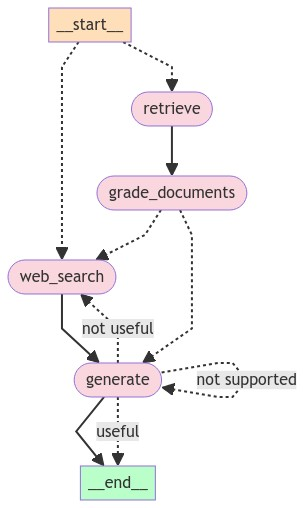
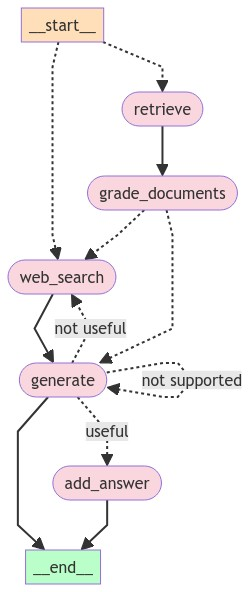
fix bugs

Changed region(s): [[0.0, 0.0, 0.98, 1.0]]

diff --git a/app/graph/graph.py b/app/graph/graph.py
@@ -1,6 +1,7 @@
 from typing import Any, Dict, Sequence
 from dotenv import load_dotenv, find_dotenv
 from langchain.schema import HumanMessage
+from langchain_core import chat_history
 from langgraph.graph import END, StateGraph
 from langgraph.checkpoint.sqlite import SqliteSaver
 
@@ -63,13 +64,15 @@ def grade_generation_grounded_in_documents_and_question(state: GraphState) -> st
 def add_answer(state: GraphState) -> Dict[str, Any]:
     print("____ADD ANSWER____")
     generation = state.generation
-    return { "chat_history": HumanMessage(content=generation)}
+    chat_history = state.chat_history or []
+    chat_history.append(HumanMessage(content=generation))
+    return { "chat_history": chat_history, "generation": generation}
 
 
 def route_question(state: GraphState) -> str:
     print("____ROUTE QUESTION____")
     question = state.question
-    chat_history = state.chat_history
+    chat_history = state.chat_history or []
     source: RouteQuery = question_router.invoke(
         {"question": question, "chat_history": chat_history}
     )

diff --git a/app/api/v1/code_wizard.py b/app/api/v1/code_wizard.py
@@ -18,16 +18,16 @@ class Message(BaseModel):
 
 class RequestBody(BaseModel):
     chat_id: str
-    chat_history: List[Message]
+    question: str
 
 @router.post("/")
 async def code_wizard(request_body: RequestBody = Body(...)):
-    question = request_body.chat_history[-1].content
+    question = request_body.question
     # This is just for debugging to be removed in production
     with open(os.path.join(os.environ["PYTHONPATH"], "body.md"), "w") as f:
         json.dump({
             "chat_id": request_body.chat_id,
-            "question": question
+            "question": request_body.question
             }, f)
 
     start_time = time.time()

diff --git a/body.md b/body.md
@@ -1,1 +1,1 @@
-{"chat_id": "IBdUk3S", "question": "explain it to me in more details with code"}
+{"chat_id": "1", "question": "what are its use cases"}
